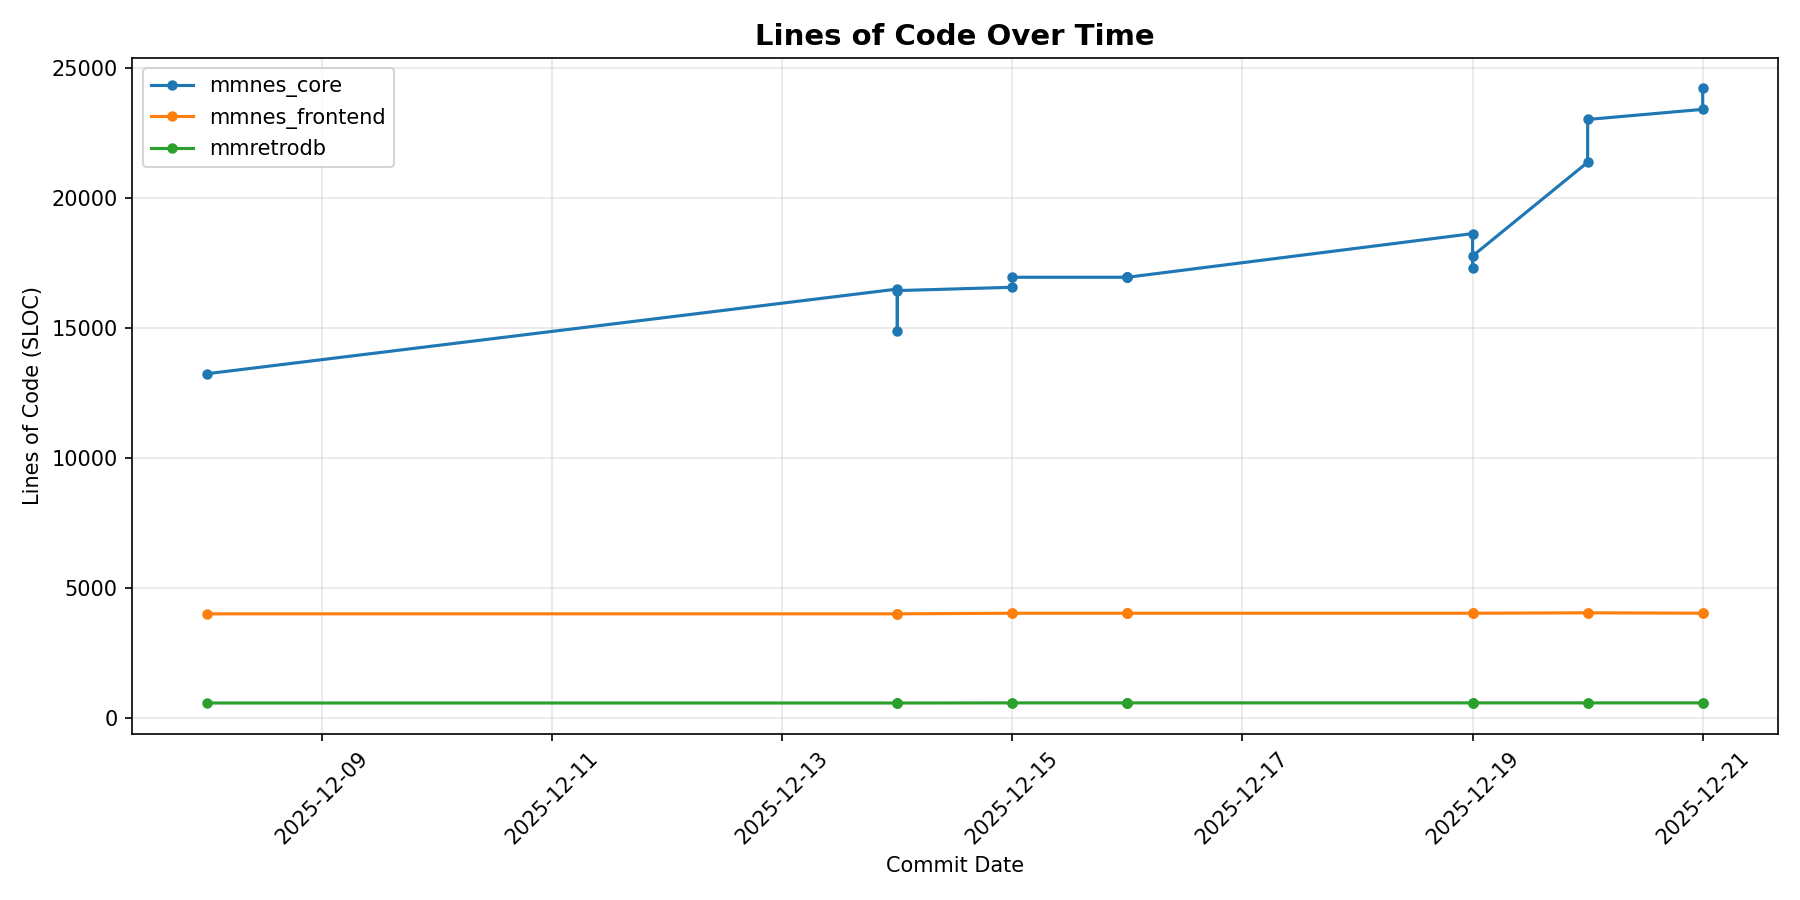
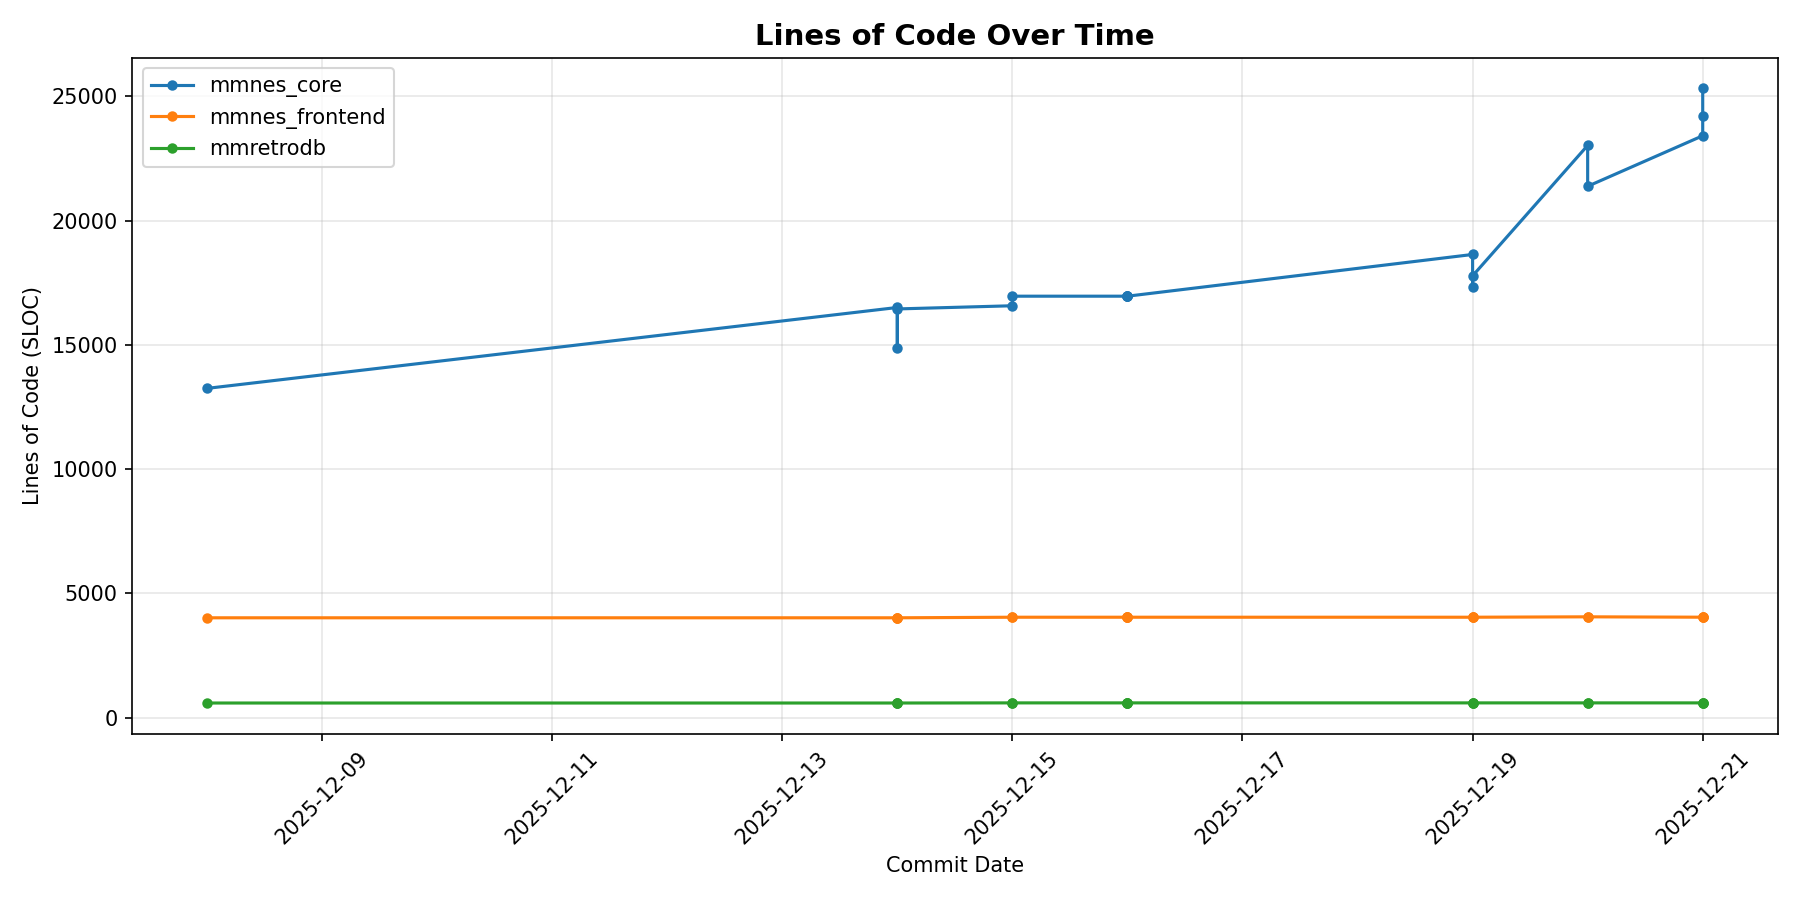
Update metrics data [skip ci]

diff --git a/metrics/data/METRICS_SUMMARY.md b/metrics/data/METRICS_SUMMARY.md
@@ -1,15 +1,15 @@
 # Code Quality Metrics Summary
 
-*Generated: 2025-12-21 11:28:15*
+*Generated: 2025-12-21 20:19:46*
 
-**Latest commit:** `33f94ad` on `main`
+**Latest commit:** `b19f153` on `main`
 
 ## Per-Crate Metrics
 
 | Crate | LOC | Functions | Avg Cyclo | Coverage | Human % | Claude % |
 |-------|-----|-----------|-----------|----------|---------|----------|
 | mmnes_frontend | 4044 | 293 | 3.6 | 0.0% | 98.9% | 1.1% |
-| mmnes_core | 24230 | 1379 | 2.7 | 47.0% | 54.7% | 45.3% |
+| mmnes_core | 25330 | 1404 | 2.8 | 45.9% | 51.8% | 48.2% |
 | mmretrodb | 596 | 58 | 2.8 | 77.0% | 100.0% | 0.0% |
 
 ## Definitions
